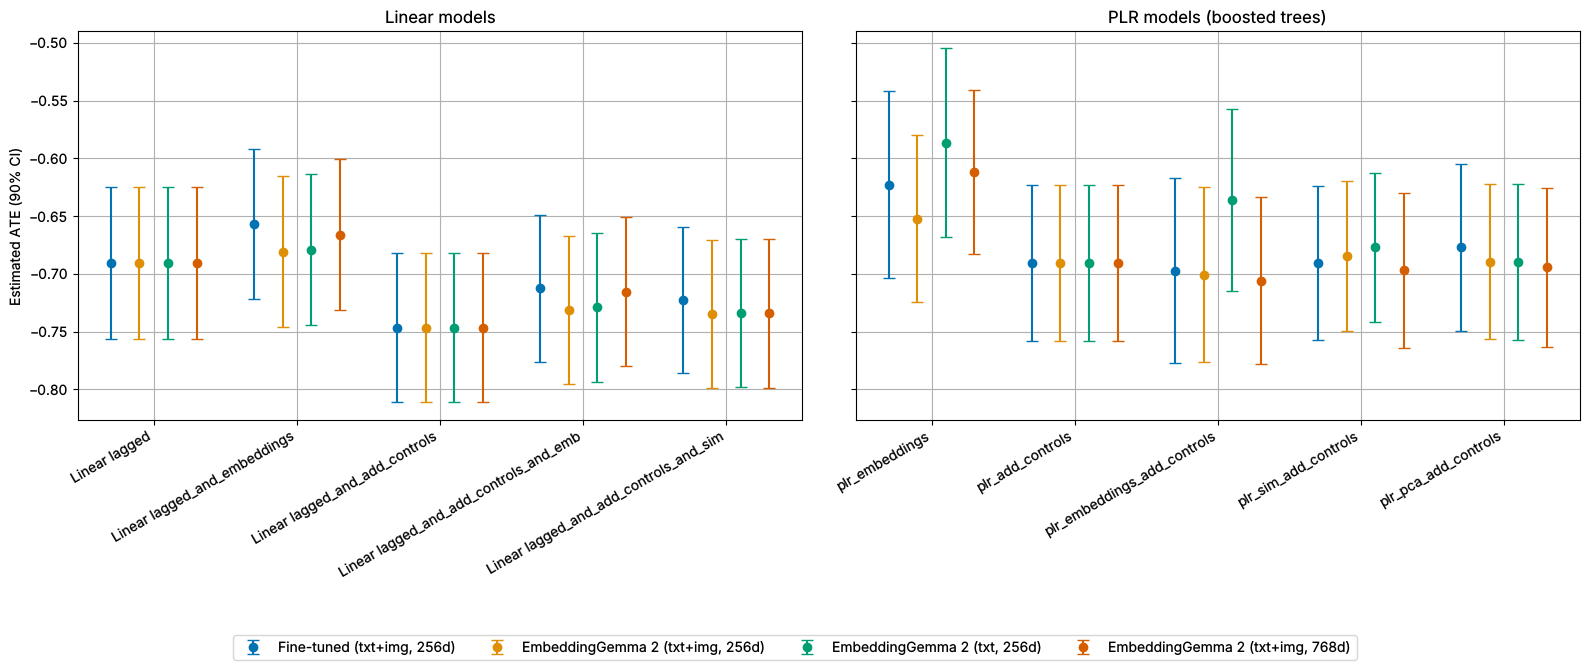
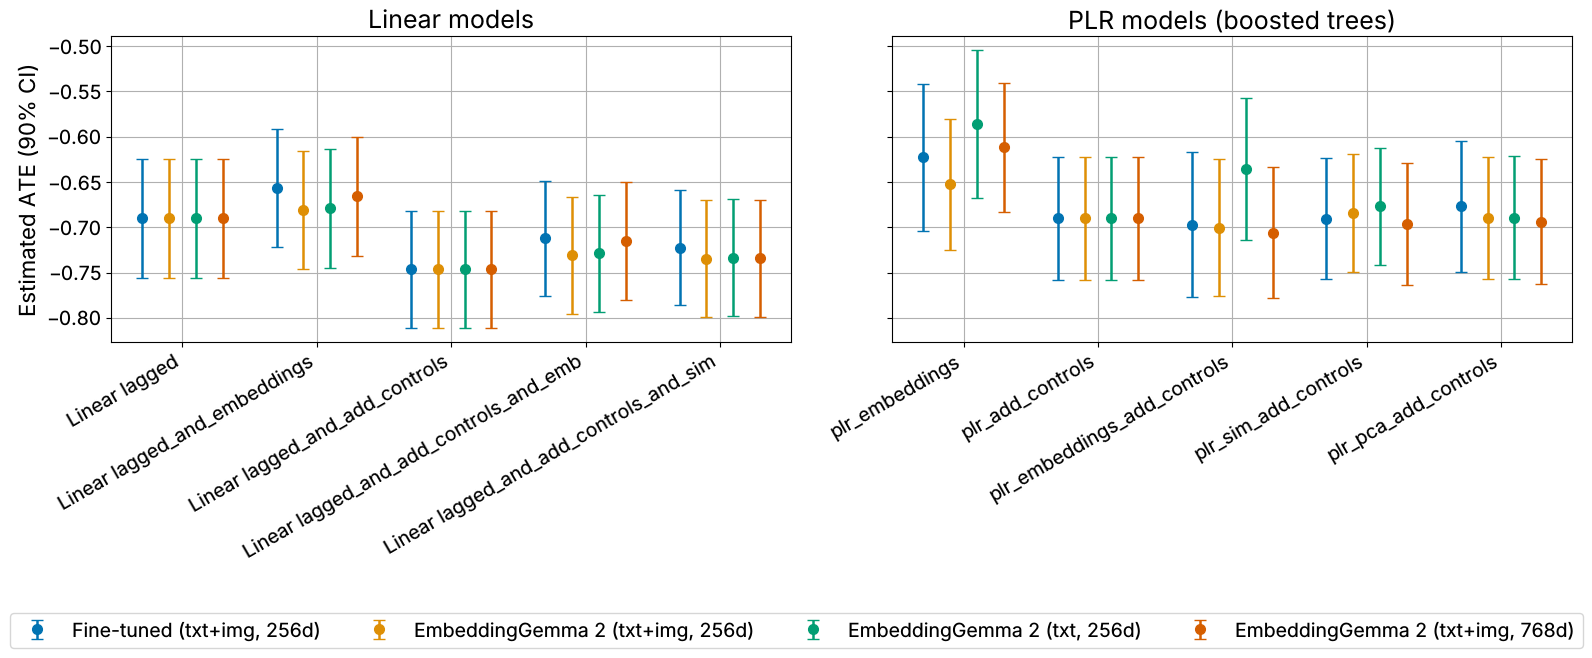
revise gemma appendix heterogeneity text

diff --git a/gemma/outputs/05_appendix_gemma/Appendix_Gemma.tex b/gemma/outputs/05_appendix_gemma/Appendix_Gemma.tex
@@ -5,7 +5,7 @@
 
 \revised{This section repeats the analysis with off-the-shelf embeddings that are not fine-tuned. The workflow is exactly the same as in the main analysis (Section~\ref{app:workflow}), except that the fine-tuning in step~2 is omitted, the embeddings in step~3 are computed with EmbeddingGemma~2 \citep{embeddinggemma2}, and their truncation to 256 coordinates replaces the random projection in Algorithm~\ref{alg:features}. All other steps of Algorithm~\ref{alg:features}, the sample split, the estimation sample, the tabular controls, the learners, and the random seeds are unchanged.}
 
-\revised{EmbeddingGemma~2 is an open multimodal embedding model released by Google DeepMind in October 2026. Built on Gemma 4, it maps text, images, video, and audio into a shared 768-dimensional space. Of its 740M parameters, we use the 270M-parameter text model and the 170M-parameter vision encoder. The description and the image of each product are encoded jointly, with the task prefix for clustering (checkpoint \texttt{google/embeddinggemma-2}, revision \texttt{914f7f8}). As the model is trained with Matryoshka representation learning, we keep the leading 256 coordinates of each embedding and re-normalize them. Unlike the fine-tuned embeddings, these embeddings are not trained on our data and use neither tabular inputs nor the price and quantity signals. The comparison therefore changes the encoders, their inputs, and the fine-tuning at the same time. Figures~\ref{fig:gemma_ate} and \ref{fig:gemma_sorted} also show two variants: text-only embeddings (256 dimensions) and text and image embeddings with all 768 dimensions.}
+\revised{EmbeddingGemma~2 is an open multimodal embedding model released by Google DeepMind in October 2026. Built on Gemma 4, it maps text, images, video, and audio into a shared 768-dimensional space. Of its 740M parameters, we use the 270M-parameter text model and the 170M-parameter vision encoder. The description and the image of each product are encoded jointly, with the task prefix for clustering (checkpoint \texttt{google/embeddinggemma-2}, revision \texttt{914f7f8}). As the model is trained with Matryoshka representation learning, we keep the leading 256 coordinates of each embedding and re-normalize them. Unlike the fine-tuned embeddings, these embeddings are not trained on our data and use neither tabular inputs nor the price and quantity signals. The comparison therefore changes the encoders, their inputs, and the fine-tuning at the same time. Figures~\ref{fig:gemma_ate} and \ref{fig:gemma_sorted} and Table~\ref{tab:gemma_chi2} also show two variants: text-only embeddings (256 dimensions) and text and image embeddings with all 768 dimensions.}
 
 \paragraph{Clusters.} \revised{Figure~\ref{fig:gemma_clusters} shows the four products closest to each of the five cluster centers: toddler construction-truck sets, 1:64 scale die-cast cars, fingerboards, toy train sets, and larger-scale die-cast model cars. Over all 7,549 products, these clusters are more closely aligned with the 11 product subcategories than the fine-tuned clusters (normalized mutual information 0.29 vs.\ 0.06), and the two cluster assignments differ substantially (adjusted Rand index 0.06).}
 
@@ -64,11 +64,11 @@ Boosted Trees Reg [+256 Embeddings] & 55.28 & 58.77 & 65.64 & 55.54 & 10.11 & 18
 \RevisionBlue
 \includegraphics[width=\textwidth]{paper/figures_revision/gemma/ate_estimates_comparison.png}
 \caption{\revised{Estimated homogeneous inverse-rank elasticities and 90\% confidence intervals by embedding.}}
-\caption*{\footnotesize \revised{Note: Left: linear models (Model I-1); right: partially linear models with boosted trees (Model I-3). Labels give the controls in addition to the state $(P_{t-1}, Q_{t-1})$: \texttt{embeddings}/\texttt{emb} $=X^{e}$, \texttt{sim} $=X^{sim}$, \texttt{pca} $=$ five principal components, \texttt{add\_controls} $=X^{o}_t$. Standard errors are clustered at the product level. The fine-tuned estimates are those of the main analysis.}}
+\caption*{\footnotesize \revised{Note: Left: linear models (Model I-1); right: partially linear models with boosted trees (Model I-3). Labels give the controls: \texttt{lagged} $=(P_{t-1}, Q_{t-1})$, included in all models; \texttt{embeddings}/\texttt{emb} $=X^{e}$, \texttt{sim} $=X^{sim}$, \texttt{pca} $=$ five principal components, \texttt{add\_controls} $=X^{o}_t$. Standard errors are clustered at the product level. The fine-tuned estimates are those of the main analysis.}}
 \label{fig:gemma_ate}
 \end{figure}
 
-\paragraph{Heterogeneous elasticities.} \revised{Table~\ref{tab:gemma_chi2} reports joint tests of the cluster similarities as effect modifiers in Models II-1 to II-3. With EmbeddingGemma~2 (text and image), the similarities are jointly significant in all three models ($p$-values 0.001, ${<}\,0.001$, and 0.012, compared with 0.030, 0.054, and ${<}\,0.001$ for the fine-tuned embeddings), and the same holds for both variants at the 5\% level. The similarities refer to different clusters for each embedding. Figure~\ref{fig:gemma_sorted} compares the sorted effects. In the linear models, the curves of all embeddings are close. In Model II-3, the fitted elasticities are less negative without fine-tuning up to about the 75th percentile and slightly more negative in the upper tail: the 5\%, 50\%, and 95\% quantiles are $-1.28$, $-0.65$, and $-0.25$ with EmbeddingGemma~2 (text and image), compared with $-1.33$, $-0.72$, and $-0.20$. With all embeddings, fitted responses span both sides of $-0.5$.}
+\paragraph{Heterogeneous elasticities.} \revised{Table~\ref{tab:gemma_chi2} reports joint tests of the cluster similarities as effect modifiers in Models II-1 to II-3. With EmbeddingGemma~2 (text and image), the similarities are jointly significant in all three models ($p$-values 0.001, ${<}\,0.001$, and 0.012, compared with 0.030, 0.054, and ${<}\,0.001$ for the fine-tuned embeddings), and the same holds for both variants at the 5\% level. The similarities refer to different clusters for each embedding. Figure~\ref{fig:gemma_sorted} compares the sorted effects. Without fine-tuning, they are more dispersed in the linear models, where the lower part of the curve is more negative (5\% quantile of Model II-1: $-1.17$ with EmbeddingGemma~2 and $-1.22$ text only, compared with $-1.08$). In Model II-3, they are less dispersed: less negative up to about the 80th percentile and slightly more negative in the upper tail (5\%, 50\%, and 95\% quantiles of $-1.28$, $-0.65$, and $-0.25$ with EmbeddingGemma~2, compared with $-1.33$, $-0.72$, and $-0.20$). With all embeddings, fitted responses span both sides of $-0.5$.}
 
 \begin{table}[!htbp]
 \centering
@@ -142,5 +142,5 @@ $2\times$ calibration & 3.06\% & $-0.838$ & $-0.563$ & $-0.895$ & $-0.502$\\
 \caption*{\footnotesize \revised{Note: $R_Y^2=R_D^2$ equal to the residual share, with worst-case alignment $|\rho|=1$. The residual shares are the calibration of the main analysis ($r_0=0.0153247$) and its 1.5 and 2 multiples, for both embeddings. The bounds refer to the inverse-rank elasticity of Model I-3 with embeddings. Bias bounds allow for omitted confounding; confidence bounds additionally account for sampling uncertainty (one-sided 90\% bounds). The fine-tuned rows repeat Table~\ref{tab:sensitivity_calibrated}.}}
 \end{table}
 
-\revised{Overall, the homogeneous elasticities, the joint significance of the cluster similarities, and the robustness to omitted confounding are similar without fine-tuning, and the sorted effects of Model II-3 are somewhat less dispersed. The embeddings differ mainly in their compressed features: the principal components and cluster similarities of the fine-tuned embeddings retain the price information and cut across product categories, whereas those of EmbeddingGemma~2 follow product categories and carry much less price information.}
+\revised{Overall, the homogeneous elasticities, the joint significance of the cluster similarities, and the robustness to omitted confounding are similar without fine-tuning; the sorted effects are somewhat more dispersed in the linear models and somewhat less dispersed in Model II-3. The embeddings differ mainly in their compressed features: the principal components and cluster similarities of the fine-tuned embeddings retain the price information and cut across product categories, whereas those of EmbeddingGemma~2 follow product categories and carry much less price information.}
 \par\endgroup

diff --git a/gemma/code/templates/Appendix_Gemma.tex b/gemma/code/templates/Appendix_Gemma.tex
@@ -7,7 +7,7 @@
 
 \revised{This section repeats the analysis with off-the-shelf embeddings that are not fine-tuned. The workflow is exactly the same as in the main analysis (Section~\ref{app:workflow}), except that the fine-tuning in step~2 is omitted, the embeddings in step~3 are computed with EmbeddingGemma~2 \citep{embeddinggemma2}, and their truncation to 256 coordinates replaces the random projection in Algorithm~\ref{alg:features}. All other steps of Algorithm~\ref{alg:features}, the sample split, the estimation sample, the tabular controls, the learners, and the random seeds are unchanged.}
 
-\revised{EmbeddingGemma~2 is an open multimodal embedding model released by Google DeepMind in October 2026. Built on Gemma 4, it maps text, images, video, and audio into a shared 768-dimensional space. Of its 740M parameters, we use the 270M-parameter text model and the 170M-parameter vision encoder. The description and the image of each product are encoded jointly, with the task prefix for clustering (checkpoint \texttt{google/embeddinggemma-2}, revision \texttt{<<revision>>}). As the model is trained with Matryoshka representation learning, we keep the leading 256 coordinates of each embedding and re-normalize them. Unlike the fine-tuned embeddings, these embeddings are not trained on our data and use neither tabular inputs nor the price and quantity signals. The comparison therefore changes the encoders, their inputs, and the fine-tuning at the same time. Figures~\ref{fig:gemma_ate} and \ref{fig:gemma_sorted} also show two variants: text-only embeddings (256 dimensions) and text and image embeddings with all 768 dimensions.}
+\revised{EmbeddingGemma~2 is an open multimodal embedding model released by Google DeepMind in October 2026. Built on Gemma 4, it maps text, images, video, and audio into a shared 768-dimensional space. Of its 740M parameters, we use the 270M-parameter text model and the 170M-parameter vision encoder. The description and the image of each product are encoded jointly, with the task prefix for clustering (checkpoint \texttt{google/embeddinggemma-2}, revision \texttt{<<revision>>}). As the model is trained with Matryoshka representation learning, we keep the leading 256 coordinates of each embedding and re-normalize them. Unlike the fine-tuned embeddings, these embeddings are not trained on our data and use neither tabular inputs nor the price and quantity signals. The comparison therefore changes the encoders, their inputs, and the fine-tuning at the same time. Figures~\ref{fig:gemma_ate} and \ref{fig:gemma_sorted} and Table~\ref{tab:gemma_chi2} also show two variants: text-only embeddings (256 dimensions) and text and image embeddings with all 768 dimensions.}
 
 \paragraph{Clusters.} <<cluster_text>>
 
@@ -54,7 +54,7 @@ Method [features] & FT & EG & FT & EG & FT & EG & FT & EG\\
 \RevisionBlue
 \includegraphics[width=\textwidth]{<<figure_dir>>/ate_estimates_comparison.png}
 \caption{\revised{Estimated homogeneous inverse-rank elasticities and 90\% confidence intervals by embedding.}}
-\caption*{\footnotesize \revised{Note: Left: linear models (Model I-1); right: partially linear models with boosted trees (Model I-3). Labels give the controls in addition to the state $(P_{t-1}, Q_{t-1})$: \texttt{embeddings}/\texttt{emb} $=X^{e}$, \texttt{sim} $=X^{sim}$, \texttt{pca} $=$ five principal components, \texttt{add\_controls} $=X^{o}_t$. Standard errors are clustered at the product level. The fine-tuned estimates are those of the main analysis.}}
+\caption*{\footnotesize \revised{Note: Left: linear models (Model I-1); right: partially linear models with boosted trees (Model I-3). Labels give the controls: \texttt{lagged} $=(P_{t-1}, Q_{t-1})$, included in all models; \texttt{embeddings}/\texttt{emb} $=X^{e}$, \texttt{sim} $=X^{sim}$, \texttt{pca} $=$ five principal components, \texttt{add\_controls} $=X^{o}_t$. Standard errors are clustered at the product level. The fine-tuned estimates are those of the main analysis.}}
 \label{fig:gemma_ate}
 \end{figure}
 
